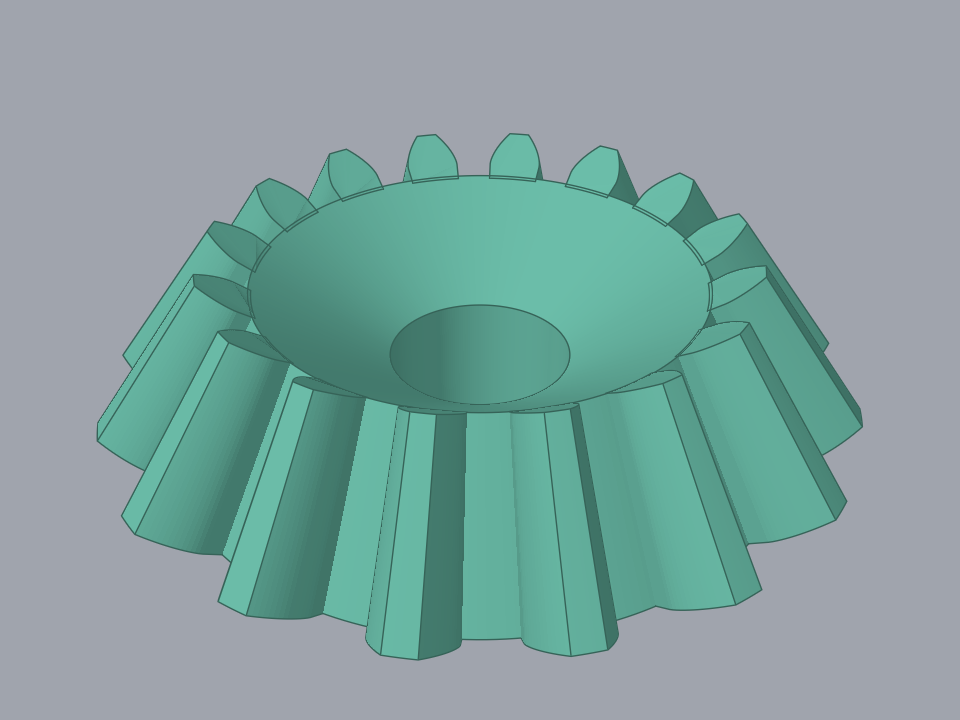
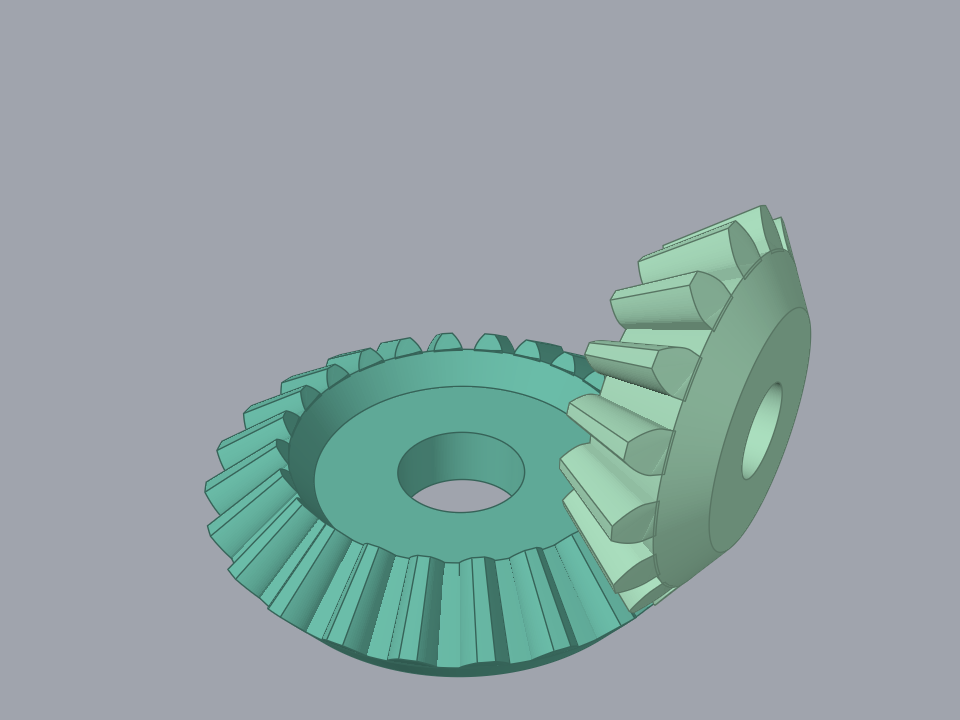
draw the bevel example as a meshing pair

diff --git a/proof/bevelgear/render_test.go b/proof/bevelgear/render_test.go
@@ -17,22 +17,31 @@ import (
 //
 // This is not a proof and it is skipped unless -render.out names a directory.
 // It is here, in the proof's own package, because the alternative is a second
-// description of the same gear: the picture is built from the lattice
+// description of the same gears: the picture is built from the lattice
 // gearLattice resolves and the tooth newToothOutline maps, trimmed on the cones
 // section 2's own toe and heel edges lie on, so a change that moves the proved
 // geometry moves the picture with it.
 //
-// What it does NOT reuse is the SOLID model. Every body in this gear is a cone,
-// which decad builds as a Loft, and a union of two lofts that meet face to face
-// is a tangent contact its exact predicates refuse to classify — the frustum's
-// own bands meet that way. So the picture is meshed directly, the way
+// BOTH gears are drawn, in mesh. The command makes a pair and the Shaft Angle
+// is a statement about that pair, so one gear alone shows neither. Nothing new
+// is invented to place them: section 2 already puts both cones on one Apex with
+// gamma_p + gamma_g = Sigma, which is exactly the statement that turning one
+// gear's frame by the Shaft Angle about the axial plane's normal leaves the two
+// pitch cones tangent along a single line. The phase that keeps a tooth of one
+// out of a tooth of the other is meshAngle, the same half tooth pitch
+// stepMeshRotation proves.
+//
+// What it does NOT reuse is the SOLID model. Every body in these gears is a
+// cone, which decad builds as a Loft, and a union of two lofts that meet face
+// to face is a tangent contact its exact predicates refuse to classify — a
+// frustum's own bands meet that way. So the picture is meshed directly, the way
 // cmd/genexamples meshes the spur gear's sweep, and the two conical trims that
 // the solid proof substitutes for are meshed exactly instead of performed:
 // every section of the tooth is the heel section scaled about the Apex, so a
 // section point's own trim station is where its ray from the Apex crosses the
 // trim cone, which is a closed form per point.
 //
-// The gear is drawn at Mean Spiral Angle 0 — a straight bevel, which is the
+// The pair is drawn at Mean Spiral Angle 0 — a straight bevel, which is the
 // path the dialog takes when the angle is left at zero. The spiral tooth is
 // built by slicing the tooth body and rotating each slice, and the slice
 // geometry is not part of what this file's lattice holds.
@@ -41,11 +50,12 @@ import (
 var renderOut = flag.String("render.out", "",
 	"directory the README example image is written to; the render is skipped when it is empty")
 
-// renderCase is the gear the README shows: the 16-tooth PINION of a 24/16 pair
-// at a right angle in module 2, with the face width left to resolve and the
-// bore on. The pinion is the steeper of the two cones — its pitch cone half
-// angle is 33.7 degrees against the driving gear's 56.3 — which is the half of
-// the pair a picture of one gear should be.
+// renderCase is the pair the README shows: 24 driving teeth against 16 on the
+// pinion, at a right angle in module 2, with the face width left to resolve and
+// the bore on. A right angle is the Shaft Angle a bevel pair is nearly always
+// asked for, and unequal counts are what make the two cones plainly different:
+// the driving gear's pitch cone half angle comes out at 56.3 degrees against
+// the pinion's 33.7.
 func renderCase() map[string]float64 {
 	return params(map[string]float64{
 		keyModule:       2,
@@ -53,8 +63,25 @@ func renderCase() map[string]float64 {
 		keyPinionTeeth:  16,
 		keyShaftAngle:   90,
 		keySpiralAngle:  0,
-		keyGearSide:     0,
 	})
+}
+
+// The two values keyGearSide takes, named rather than spelled 1 and 0 at the
+// call sites that place the pair.
+const (
+	pinionSide  = 0
+	drivingSide = 1
+)
+
+// renderSides is the pair, in the order it is drawn and the colours it is drawn
+// in. Two shades of one hue: the members are the same kind of part, made by the
+// same command, and the picture should not suggest otherwise.
+var renderSides = []struct {
+	side  float64
+	color solidlens.Color
+}{
+	{drivingSide, solidlens.RGB(0.13, 0.45, 0.35)},
+	{pinionSide, solidlens.RGB(0.35, 0.64, 0.45)},
 }
 
 // renderSegments is how many facets a revolved surface is chorded to. It is set
@@ -66,41 +93,118 @@ const renderSegments = 240
 // root arcs is drawn with.
 const renderArcSamples = 10
 
-// gearColor is the bevel gear's own colour in the README table, chosen to sit
-// apart from the spur, helical and herringbone examples.
-var gearColor = solidlens.RGB(0.13, 0.45, 0.35)
-
 func TestRenderExample(t *testing.T) {
 	if *renderOut == "" {
 		t.Skip("no -render.out directory; the example image is not being regenerated")
 	}
-	p := renderCase()
-	d := newDesign(t, p)
-	g, f := sideOf(d, p)
+	base := renderCase()
+	d := newDesign(t, base)
 
-	body, err := render.Revolve(frustumProfile(g, f), renderSegments)
-	if err != nil {
-		t.Fatalf("frustum: %v", err)
-	}
-	teeth, err := toothRing(t, d, g, f)
-	if err != nil {
-		t.Fatalf("teeth: %v", err)
-	}
-	if body, err = render.Placed(body, facing(t)); err != nil {
-		t.Fatalf("turn the frustum to face the camera: %v", err)
-	}
-	if teeth, err = render.Placed(teeth, facing(t)); err != nil {
-		t.Fatalf("turn the teeth to face the camera: %v", err)
+	var parts []render.Part
+	var meshes []solidlens.TriangleSource
+	for _, member := range renderSides {
+		// One case resolves both gears; keyGearSide is all that picks between
+		// them, exactly as it does for a per-gear step in the case table.
+		p := withSide(base, member.side)
+		g, f := sideOf(d, p)
+		place := placement(t, d, g, p)
+		for _, mesh := range gearMeshes(t, d, g, f) {
+			moved, err := render.Placed(mesh, place)
+			if err != nil {
+				t.Fatalf("place the %s gear: %v", g.Label, err)
+			}
+			parts = append(parts, render.Part{Mesh: moved, Color: member.color})
+			meshes = append(meshes, moved)
+		}
 	}
 
-	scene := render.Scene(renderView(t, body, teeth),
-		render.Part{Mesh: body, Color: gearColor},
-		render.Part{Mesh: teeth, Color: gearColor})
+	scene := render.Scene(renderView(t, meshes...), parts...)
 	path := filepath.Join(*renderOut, "bevel.png")
 	if err := render.WritePNG(t.Context(), path, scene, solidlens.Settings{Width: 960, Height: 720}); err != nil {
 		t.Fatalf("write %s: %v", path, err)
 	}
 	t.Logf("wrote %s", path)
+}
+
+// withSide is the case with keyGearSide set, so both members of the pair are
+// resolved from the one set of dialog values rather than from two.
+func withSide(p map[string]float64, side float64) map[string]float64 {
+	out := make(map[string]float64, len(p)+1)
+	for k, v := range p {
+		out[k] = v
+	}
+	out[keyGearSide] = side
+	return out
+}
+
+// gearMeshes is one gear, in its own frame: the Gear Body and its ring of
+// teeth, which are separate meshes because they are separate bodies until the
+// generator's Combine-Join makes them one.
+func gearMeshes(t *testing.T, d design, g gear, f gearFrame) []*solidlens.Mesh {
+	t.Helper()
+	body, err := render.Revolve(frustumProfile(g, f), renderSegments)
+	if err != nil {
+		t.Fatalf("%s frustum: %v", g.Label, err)
+	}
+	teeth, err := toothRing(t, d, g, f)
+	if err != nil {
+		t.Fatalf("%s teeth: %v", g.Label, err)
+	}
+	return []*solidlens.Mesh{body, teeth}
+}
+
+// placement carries one gear out of its own frame — Apex at the origin, shaft
+// along +Z — and into the pair, as seen by the camera. Three turns compose, in
+// this order.
+//
+// First the MESHING rotation about the gear's own shaft: half a tooth pitch for
+// the driving gear and the pinion's own phase, zero, for the pinion. Both gears
+// carry a tooth centred on the plane the two shafts share, so without it the
+// pair meets tooth on tooth; half a pitch puts one gear's valley where the
+// other's tooth is, which is what stepMeshRotation proves it is for.
+//
+// Then the SHAFT ANGLE, for the pinion alone: a turn of Sigma about +Y, the
+// normal of the axial plane. Section 2 resolves the two cone angles so that
+// gamma_p + gamma_g = Sigma, and that is the whole content of the placement —
+// the pinion's pitch cone element sits gamma_p off its own shaft, the driving
+// gear's sits gamma_g off its own, and turning one shaft by their sum brings
+// the two elements onto one line through the Apex.
+//
+// Last a half turn about X, applied to both, so the driving gear's toe end —
+// the end its teeth taper to — meets a camera standing above it. That leaves
+// the driving gear lying flat and the pinion reaching out sideways, which is
+// how a right-angle pair is usually shown.
+func placement(t *testing.T, d design, g gear, p map[string]float64) r3.Transform {
+	t.Helper()
+	place := turn(t, r3.NewVec(0, 0, 1), meshAngle(d, g, p))
+	if g.Label == "Pinion" {
+		place = compose(t, place, turn(t, r3.NewVec(0, 1, 0), d.Sigma))
+	}
+	return compose(t, place, turn(t, r3.NewVec(1, 0, 0), math.Pi))
+}
+
+// turn is a rotation about an axis through the Apex, which is every rotation
+// this file makes. A zero angle is the identity rather than a refusal, since
+// the pinion's own mesh phase is zero by default.
+func turn(t *testing.T, axis r3.Vec, angle float64) r3.Transform {
+	t.Helper()
+	if angle == 0 {
+		return r3.Identity()
+	}
+	rotation, err := r3.Rotation(axis, units.Radians(angle))
+	if err != nil {
+		t.Fatalf("rotation of %g radians about %v: %v", angle, axis, err)
+	}
+	return rotation
+}
+
+func compose(t *testing.T, first, next r3.Transform) r3.Transform {
+	t.Helper()
+	out, err := first.Then(next)
+	if err != nil {
+		t.Fatalf("compose two placements: %v", err)
+	}
+	return out
 }
 
 // frustumProfile is the Gear Body's revolve profile: the section 2 hexagon,
@@ -240,26 +344,13 @@ func rotated(section []render.Vec2, angle float64) []render.Vec2 {
 	return out
 }
 
-// facing turns the gear a half turn about X, which brings the toe end — the
-// end the teeth taper to, and the end that meets the other gear of the pair —
-// round to the camera. The gear is built in the proof's own frame, with the
-// Apex at the origin and the shaft along +Z, and that frame presents the flat
-// back of the gear to a camera standing above it.
-func facing(t *testing.T) r3.Transform {
-	t.Helper()
-	turn, err := r3.Rotation(r3.NewVec(1, 0, 0), units.Radians(math.Pi))
-	if err != nil {
-		t.Fatalf("half turn about X: %v", err)
-	}
-	return turn
-}
-
-// renderView frames the gear on what it actually occupies, which is not
-// anything the lattice names: the teeth stand proud of every point in it.
+// renderView frames the pair on what it actually occupies, which is not
+// anything the lattice names: the teeth stand proud of every point in it, and
+// the two gears reach along different shafts.
 func renderView(t *testing.T, meshes ...solidlens.TriangleSource) solidlens.Camera {
 	t.Helper()
 	view, err := render.View{
-		Distance:     2.3,
+		Distance:     2.75,
 		ElevationDeg: 34,
 		AzimuthDeg:   -58,
 		FOV:          32,

diff --git a/README.md b/README.md
@@ -20,14 +20,15 @@ The add-in installs one command per generator into a **Gears** dropdown in the F
 | **Spur Gear**<br>Straight teeth across the rim. Rendered at module 2, 24 teeth, 20° pressure angle, 12 mm thick, 10 mm bore. | <img src="docs/images/gears/spur.png" width="320" alt="A cyan spur gear with a central bore, teeth running straight across the rim"> |
 | **Helical Gear**<br>The same tooth twisted to the far face, which is what *Helix Angle* sets. Rendered 16 mm thick at 20°. | <img src="docs/images/gears/helical.png" width="320" alt="A violet helical gear, its teeth twisting evenly around the rim"> |
 | **Herringbone Gear**<br>Twisted to mid-body and mirrored, so the teeth meet in a chevron and the thrust cancels. Rendered 20 mm thick at 20°. | <img src="docs/images/gears/herringbone.png" width="320" alt="An amber herringbone gear, its teeth meeting in a chevron at mid-height"> |
-| **Bevel Gear**<br>Straight or spiral from the same command. *Mean Spiral Angle* selects between them (0 gives a straight bevel), and *Hand of Spiral* picks the direction. Rendered as the 16-tooth pinion of a 24/16 pair at a right angle, module 2, spiral angle 0. | <img src="docs/images/gears/bevel.png" width="320" alt="A green straight bevel gear, its teeth tapering down the cone toward the small end"> |
+| **Bevel Gear**<br>Straight or spiral from the same command. *Mean Spiral Angle* selects between them (0 gives a straight bevel), and *Hand of Spiral* picks the direction. Rendered as a 24/16 pair in mesh at a right angle, module 2, spiral angle 0. | <img src="docs/images/gears/bevel.png" width="320" alt="A green straight bevel pair meshing at a right angle: a flat 24-tooth gear with a 16-tooth pinion standing on its rim"> |
 | **Cycloidal Drive**<br>A speed reducer rather than a single gear. It builds the lobed disc(s), the eccentric cam, a pinless ring housing and the output plate with its pins, each in its own sub-component. Rendered at the dialog's defaults with two discs, the plate lifted clear on its own pins so the rest can be seen. | <img src="docs/images/gears/cycloidal.png" width="320" alt="A cycloidal drive with its output plate lifted off: a blue ring housing holding a red lobed disc and a gold eccentric cam, and a teal plate above it on six pins"> |
 
 None of those pictures is a drawing of a gear. Every spur, helical and herringbone flank is the
 involute the generator itself cuts, sampled from [`proof/involute`](proof/involute), and each of the
-three is swept the way its spec sweeps it. The bevel gear is built from the lattice its own proof
-resolves and trimmed by the cones that proof places, and every part of the cycloidal drive is a body
-its proof extrudes, so a change to the proved geometry moves the picture with it. The renderer is
+three is swept the way its spec sweeps it. Both bevel gears are built from the lattice their own
+proof resolves and trimmed by the cones it places, meshing at the phase that proof fixes, and every
+part of the cycloidal drive is a body its proof extrudes. A change to the proved geometry moves the
+picture with it. The renderer is
 [SolidLens](https://github.com/lestrrat-3d/solidlens). Regenerate all five with
 `proof/render_examples.sh`, which runs against the engine revisions `proof/go.mod` pins.
 
